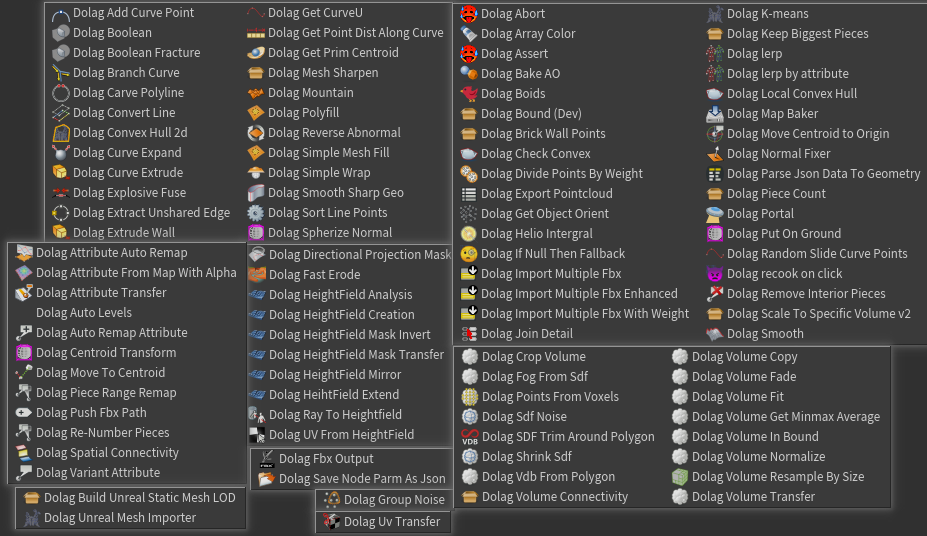
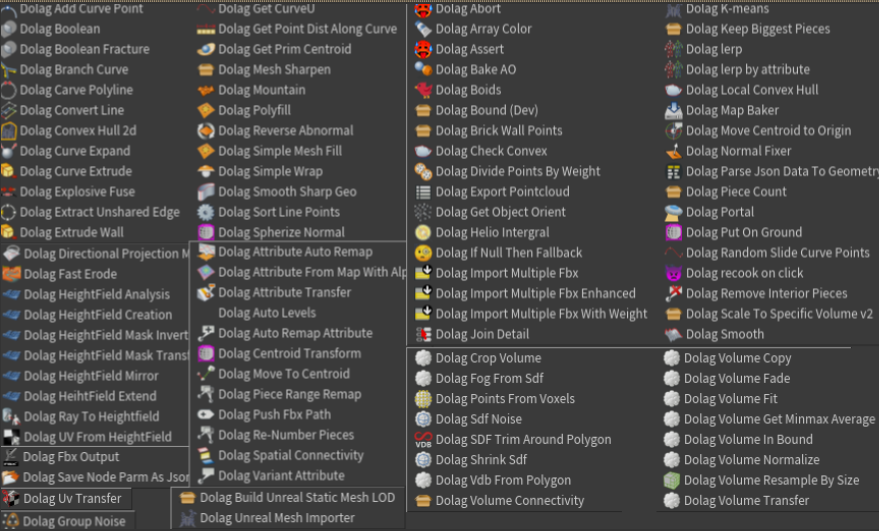
[Readme] Update image and optimize discription

diff --git a/README.md b/README.md
@@ -12,7 +12,9 @@
 
 ## 功能概览
 
-- **100+ 实用HDA**：提供海量HDA，涵盖建模、虚幻引擎、体积、高度场等多个模块。所有节点均可在Tab菜单的 `Dolag` 分类下找到。
+- **100+ 实用HDA**：提供海量SOP HDA，涵盖建模、虚幻引擎、体积、高度场等多个模块，专为程序化生成设计，同时又包含许多通用功能。
+    
+    所有节点均可在Tab菜单的 `Dolag` 分类下找到。
 
 <p align="center">
   <img src="img/节点一览.png" alt="节点一览" width="80%">
@@ -21,7 +23,7 @@
 - **快捷控制台**：在网络编辑器（Network Editor）面板中，按下`Ctrl+空格`即可唤出一个快速搜索列表，允许用户通过关键词搜索并执行指令。
 
 - **增强菜单功能**：
-    1. **扩充右键菜单**：为节点和参数的右键菜单添加了丰富的“Dolag”分类功能。例如，右键点击按钮类型的参数，会显示“Dolag > Copy Button”等扩展选项。部分功能包括：
+    1. **扩充右键菜单**：部分功能包括：
         - 一键整理节点布局。
         - 保存与加载节点参数。
         - 一键设置Ramp参数的插值方式，并支持细分、随机、平滑等操作。
@@ -82,7 +84,9 @@ A powerful Houdini toolset that brings you a massive number of practical SOP nod
 
 ## <a name="features"></a>Features
 
-- **100+ Practical HDAs**: Provides a massive collection of HDAs covering modules like modeling, Unreal Engine, volumes, and height fields. All nodes can be found under the `Dolag` category in the Tab menu.
+- **100+ Practical SOP HDAs**: Provides a massive collection of SOP HDAs covering modules like modeling, Unreal Engine, volumes, and height fields, specifically designed for procedural generation while including many general-purpose functionalities.
+
+    All nodes can be found under the `Dolag` category in the Tab menu.
 
 <p align="center">
   <img src="img/节点一览.png" alt="Node Overview" width="80%">
@@ -91,7 +95,7 @@ A powerful Houdini toolset that brings you a massive number of practical SOP nod
 - **Quick Console**: In the Network Editor pane, press `Ctrl+Space` to bring up a quick search list, allowing users to find and execute commands via keywords.
 
 - **Enhanced Menu Functions**:
-    1. **Extended Right-Click Menu**: Adds a "Dolag" category to the right-click menus for nodes and parameters. For example, right-clicking a button-type parameter will show extended options like "Dolag > Copy Button". Some features include:
+    1. **Extended Right-Click Menu**: Key features include:
         - One-click node layout arrangement.
         - Save and load node parameters.
         - One-click setting of interpolation modes for Ramp parameters, with support for subdivision, randomization, and smoothing.
